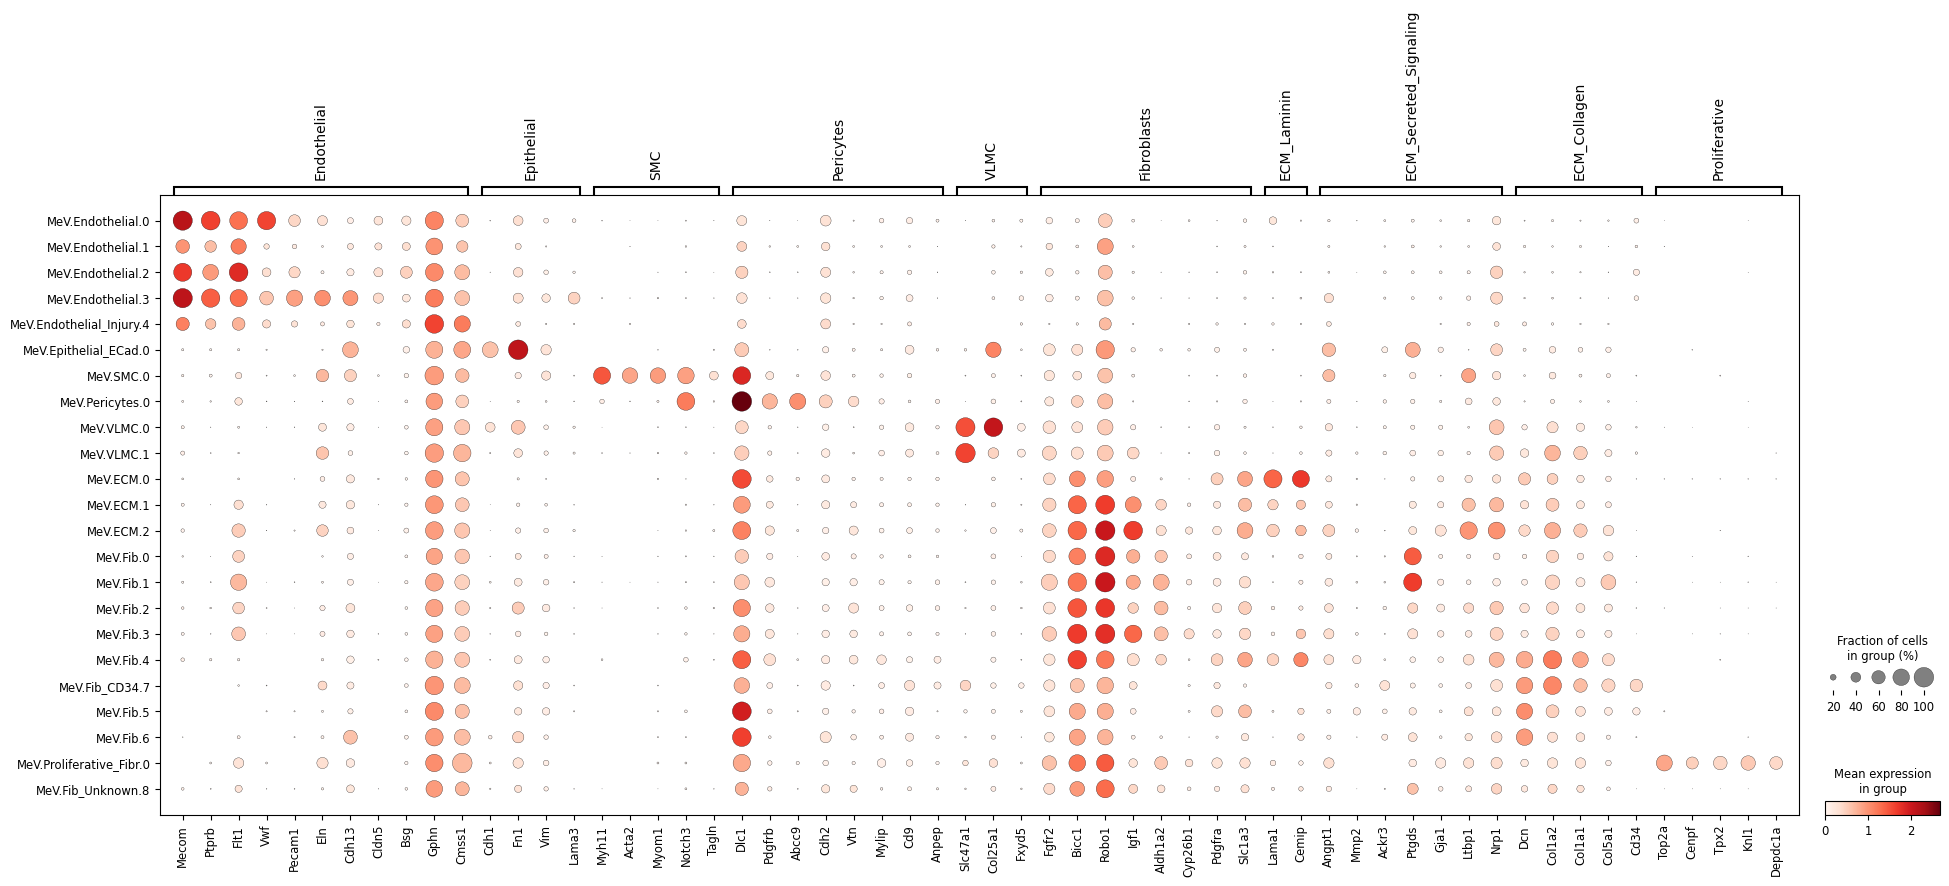
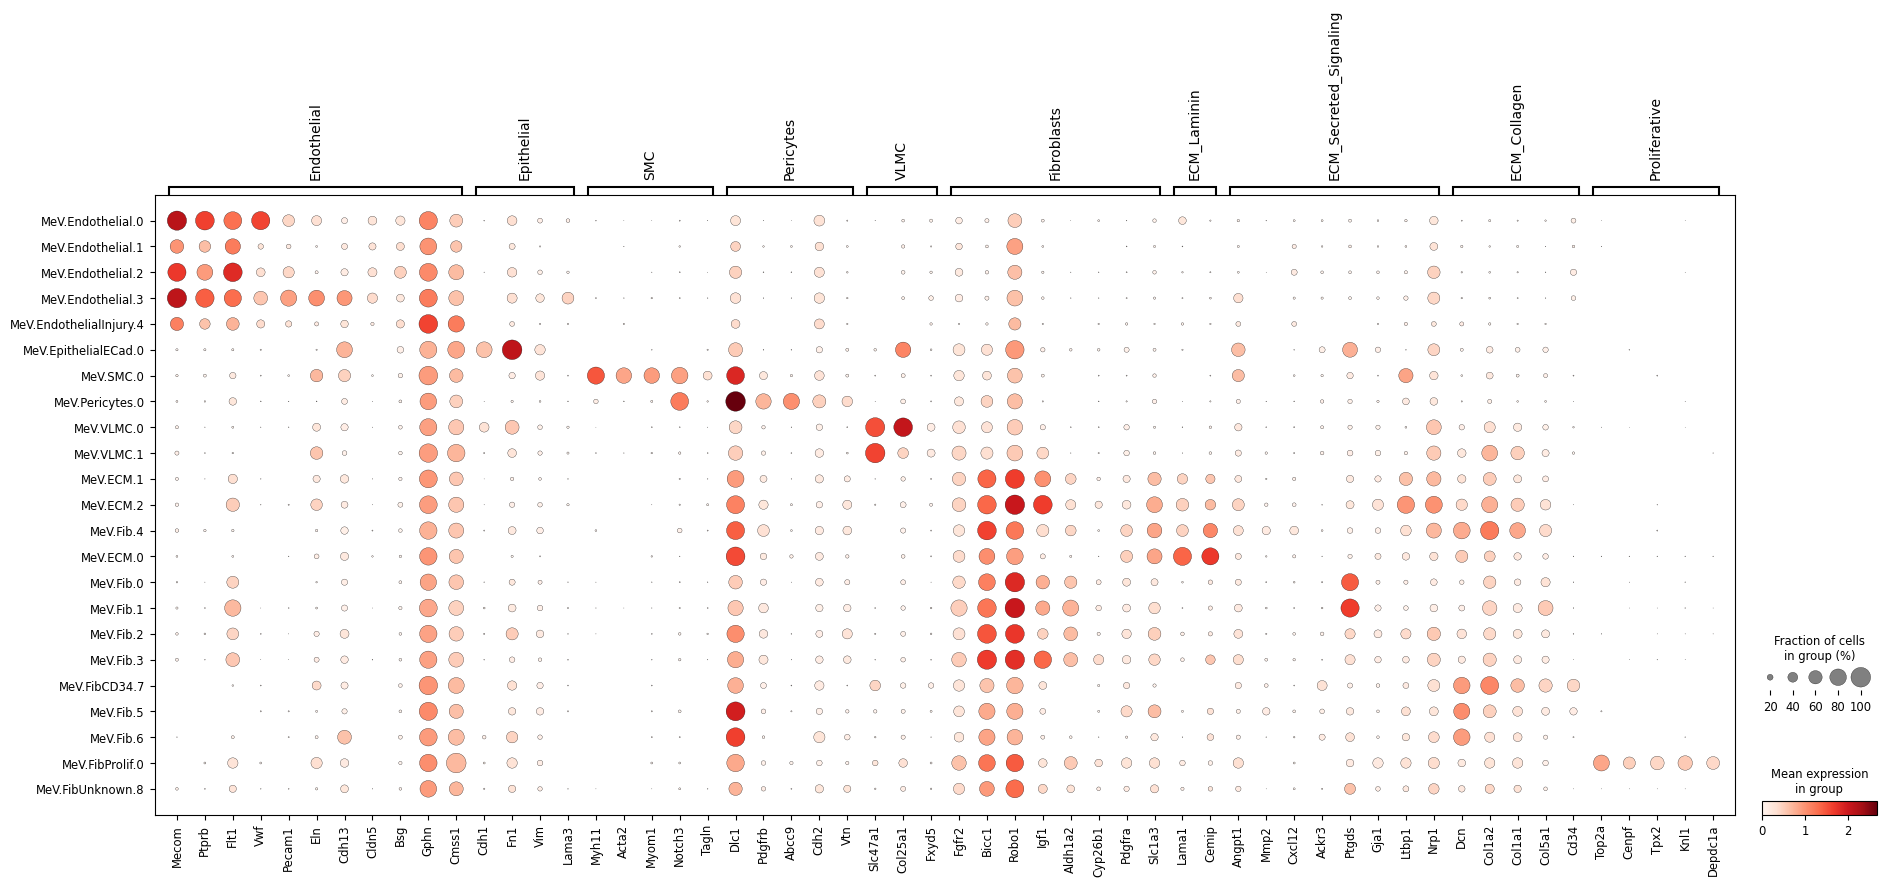
updates cluster names

diff --git a/src/scripts/general_mako/rename_cluster.py b/src/scripts/general_mako/rename_cluster.py
@@ -95,31 +95,14 @@ if __name__ == "__main__":
     ]
 
     rename_pairs= [
-        ('MeV.1.4.1', 'MeV.Endothelial.0'),
-        ('MeV.4.21', 'MeV.Endothelial.3'),
-        ('MeV.1.4.5', 'MeV.Endothelial.2'),
-        ('MeV.1.4.15', 'MeV.Endothelial.1'),
-        ('MeV.1.4.20', 'MeV.Endothelial_Injury.4'),
-        ('MeV.4.31', 'MeV.SMC.0'),
-        ('MeV.4.1', 'MeV.Pericytes.0'),
-        ('MeV.3.30', 'MeV.Proliferative_Fibr.0'),
-        ('MeV.4.30', 'MeV.Fib_CD34.7'),
-        ('MeV.1.4.8', 'MeV.Low_Quality.0'),
-        ('MeV.1.4.21', 'MeV.Immune_doublets.0'),
-        ('MeV.4.26', 'MeV.Epithelial_ECad.0'),
-        ('MeV.4.4', 'MeV.VLMC.0'),
-        ('MeV.4.12', 'MeV.VLMC.1'),
-        ('MeV.3.17', 'MeV.ECM.0'),
-        ('MeV.2.1', 'MeV.ECM.1'),
-        ('MeV.2.8', 'MeV.ECM.2'),
-        ('MeV.1.4.2', 'MeV.Fib_Unknown.8'),
-        ('MeV.1.4.11', 'MeV.Fib.0'),
-        ('MeV.1.4.4', 'MeV.Fib.1'),
-        ('MeV.1.4.7', 'MeV.Fib.2'),
-        ('MeV.1.4.6', 'MeV.Fib.3'),
-        ('MeV.1.4.12', 'MeV.Fib.4'),
-        ('MeV.4.34', 'MeV.Fib.5'),
-        ('MeV.1.4.13', 'MeV.Fib.6')
+        ('MeV.Endothelial_Injury.4', 'MeV.EndothelialInjury.4'),
+        ('MeV.Proliferative_Fibr.0', 'MeV.FibProlif.0'),
+        ('MeV.Fib_CD34.7', 'MeV.FibCD34.7'),
+        ('MeV.Low_Quality.0', 'MeV.LowQuality.0'),
+        ('MeV.Immune_doublets.0', 'MeV.ImmuneDoublets.0'),
+        ('MeV.Epithelial_ECad.0', 'MeV.EpithelialECad.0'),
+        ('MeV.Fib_Unknown.8', 'MeV.FibUnknown.8')
+
 
     ]
 

diff --git a/src/scripts/scripts_meningeal/meningeal_canonical.py b/src/scripts/scripts_meningeal/meningeal_canonical.py
@@ -397,7 +397,7 @@ if __name__ == "__main__":
 
     filtered_adata = remove_NA_cat(adata)
 
-    clusters_to_remove = ['MeV.Immune_doublets.0', 'MeV.Low_Quality.0']
+    clusters_to_remove = ['MeV.ImmuneDoublets.0', 'MeV.LowQuality.0']
     adatas_filtered = remove_clusters(filtered_adata, clusters_to_remove)
 
     #preform dendrogram
@@ -411,9 +411,9 @@ if __name__ == "__main__":
     # Define thresholds
     pts_thresholds = [0, 0.2, 0.3]
 
-    custom_cluster_order = ["MeV.Endothelial.0", "MeV.Endothelial.1", "MeV.Endothelial.2", "MeV.Endothelial.3", "MeV.Endothelial_Injury.4", "MeV.Epithelial_ECad.0",
-                            "MeV.SMC.0", "MeV.Pericytes.0", "MeV.VLMC.0", "MeV.VLMC.1" , "MeV.ECM.0", "MeV.ECM.1", "MeV.ECM.2", "MeV.Fib.0", "MeV.Fib.1", 
-                            "MeV.Fib.2", "MeV.Fib.3", "MeV.Fib.4", "MeV.Fib_CD34.7", "MeV.Fib.5", "MeV.Fib.6", "MeV.Proliferative_Fibr.0", "MeV.Fib_Unknown.8"]
+    custom_cluster_order = ["MeV.Endothelial.0", "MeV.Endothelial.1", "MeV.Endothelial.2", "MeV.Endothelial.3", "MeV.EndothelialInjury.4", "MeV.EpithelialECad.0",
+                            "MeV.SMC.0", "MeV.Pericytes.0", "MeV.VLMC.0", "MeV.VLMC.1" ,"MeV.ECM.1", "MeV.ECM.2", "MeV.Fib.4", "MeV.ECM.0", "MeV.Fib.0", "MeV.Fib.1", 
+                            "MeV.Fib.2", "MeV.Fib.3",  "MeV.FibCD34.7", "MeV.Fib.5", "MeV.Fib.6", "MeV.FibProlif.0", "MeV.FibUnknown.8"]
     
 
 
